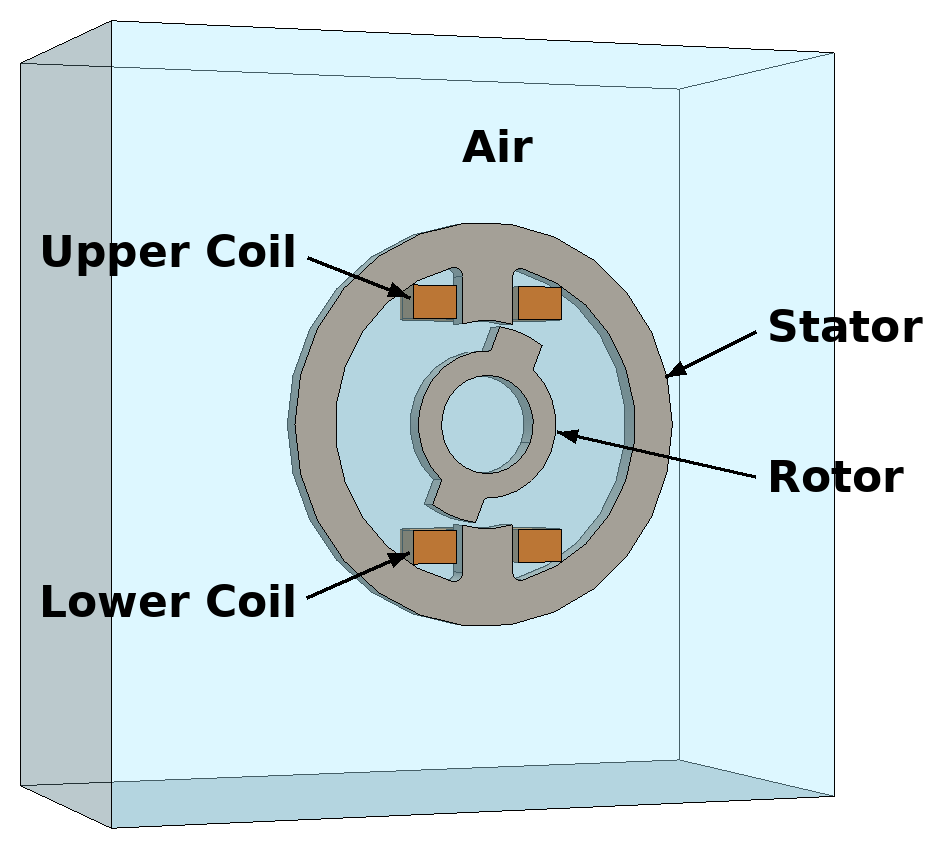
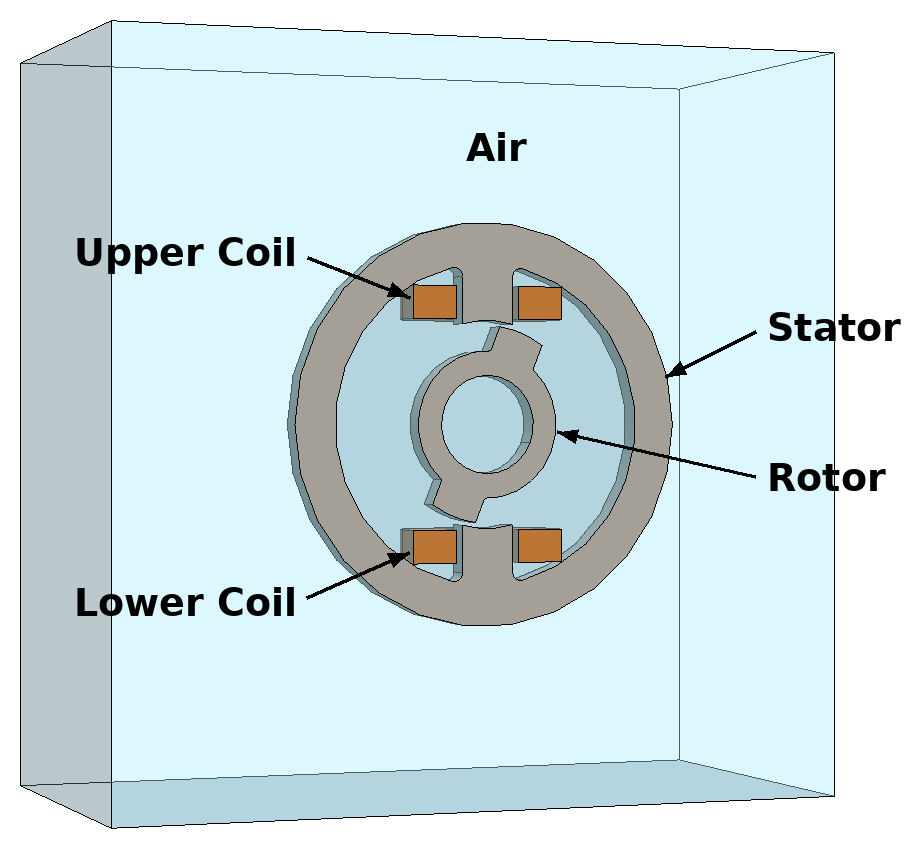
Write the Team24 animation input on every run and draw its plots in create_scene.py

diff --git a/Electromagnetics/Compumag-Team24-Locked-Rotor/case.py b/Electromagnetics/Compumag-Team24-Locked-Rotor/case.py
@@ -24,10 +24,6 @@ class Team24LockedRotor(ValidationCase):
     name = "Compumag TEAM 24: Nonlinear Time-Transient Rotational Test Rig"
     tags = {"moderate"}
 
-    # export the fields to VisualizationOutput/ and the plots to vis/ for every time step
-    # (see create_scene.py)
-    output_for_animation = False
-
     def build_geometry(self):
         from netgen.occ import Box, Cylinder, Glue, X, Y, Z, gp_Ax1, gp_Ax2, gp_Dir, gp_Pnt
 
@@ -246,22 +242,17 @@ class Team24LockedRotor(ValidationCase):
         return sim
 
     def solve(self):
-        if not self.output_for_animation:
-            self.sim.run()
-            return
-
-        field_exporter = self.sim.get_field_exporter()
-        field_exporter.add_field_output("Electric Current Density")
-        field_exporter.add_field_output("Magnetic Flux Density")
-        field_exporter.add_field_output("Element Type")
-        field_exporter.add_field_output("Cell Volume")
+        # The fields of every time step for the scenes of create_scene.py (collective).
+        exporter = self.sim.get_field_exporter()
+        exporter.set_output_directory(self.dir_path / "VisualizationOutput")
+        exporter.add_field_outputs(["Electric Current Density", "Element Type"])
 
         self.sim.initialize()
-        field_exporter.save()
+        exporter.save()
 
         for _ in range(30):
             self.runner.advance(1)
-            field_exporter.save()
+            exporter.save()
 
     def validate(self):
         self.coil_current = self.current_monitor.get_values()
@@ -286,20 +277,36 @@ class Team24LockedRotor(ValidationCase):
             tables / "Table_6_Hall_Probe_Flux_Density.csv", delimiter=",", skiprows=1
         )
 
-        if self.output_for_animation:
-            (self.dir_path / "vis").mkdir(exist_ok=True)
-            for i in range(len(self.coil_current)):
-                self.plot(
-                    self.coil_current[: i + 1],
-                    self.rotor_torque[: i + 1],
-                    current_ref,
-                    torque_ref,
-                    self.dir_path / "vis",
-                    f"_{i:03d}",
-                )
+        # The input of the animation of create_scene.py.
+        numpy.savez(
+            self.scene_data_path,
+            coil_current=numpy.array(self.coil_current),
+            rotor_torque=numpy.array(self.rotor_torque),
+        )
 
-        self.plot(
-            self.coil_current, self.rotor_torque, current_ref, torque_ref, self.results_path, ""
+        common = dict(
+            style=PlotStyle.LINE_AND_POINTS,
+            reference_style=PlotStyle.POINTS,
+            reference_label="Allen (1996)",
+            xlabel="Time [s]",
+            xlim=(0.0, 0.15),
+            xticks=[0.0, 0.05, 0.1, 0.15],
+        )
+        xy_plot(
+            values=self.coil_current,
+            reference_values=current_ref,
+            ylabel="Coil Current [A]",
+            ylim=(0.0, 8.0),
+            path=f"{self.results_path / 'Coil_Current_vs_Time.png'}",
+            **common,
+        )
+        xy_plot(
+            values=self.rotor_torque,
+            reference_values=torque_ref,
+            ylabel="Rotor Torque [Nm]",
+            ylim=(0.0, 3.5),
+            path=f"{self.results_path / 'Rotor_Torque_vs_Time.png'}",
+            **common,
         )
 
         xy_plot(
@@ -314,34 +321,6 @@ class Team24LockedRotor(ValidationCase):
             xticks=[0.0, 0.05, 0.1, 0.15],
             ylim=(0.0, 1.4),
             path=f"{self.results_path / 'Hall_Probe_vs_Time.png'}",
-        )
-
-    @staticmethod
-    def plot(current, torque, current_ref, torque_ref, directory, suffix):
-        common = dict(
-            style=PlotStyle.LINE_AND_POINTS,
-            reference_style=PlotStyle.POINTS,
-            reference_label="Allen (1996)",
-            xlabel="Time [s]",
-            xlim=(0.0, 0.15),
-            xticks=[0.0, 0.05, 0.1, 0.15],
-        )
-
-        xy_plot(
-            values=current,
-            reference_values=current_ref,
-            ylabel="Coil Current [A]",
-            ylim=(0.0, 8.0),
-            path=f"{directory}/Coil_Current_vs_Time{suffix}.png",
-            **common,
-        )
-        xy_plot(
-            values=torque,
-            reference_values=torque_ref,
-            ylabel="Rotor Torque [Nm]",
-            ylim=(0.0, 3.5),
-            path=f"{directory}/Rotor_Torque_vs_Time{suffix}.png",
-            **common,
         )
 
 

diff --git a/Electromagnetics/Compumag-Team24-Locked-Rotor/create_scene.py b/Electromagnetics/Compumag-Team24-Locked-Rotor/create_scene.py
@@ -1,8 +1,8 @@
 """Render results/Scene_ElementType.png and results/Result_Animation.gif from the case output.
 
-Run the case with `output_for_animation = True` first: it exports the fields of every time step
-and writes the current and torque plots into vis/. Then run `pvpython create_scene.py`
-(requires `ffmpeg`).
+Run with `pvpython create_scene.py` after the case (requires `ffmpeg`). The case exports the
+fields of every time step to VisualizationOutput/ and writes the coil current and the rotor
+torque over time to VisualizationOutput/Scene_Data.npz.
 """
 
 import sys
@@ -11,13 +11,16 @@ from pathlib import Path
 case_dir = Path(__file__).resolve().parent
 sys.path.insert(0, str(case_dir.parents[1]))
 
+import numpy as np
 
+from casekit import PlotStyle, xy_plot
 from casekit.images import combine_images, write_gif
 from casekit.paraview_scene import (
     blocks,
     color_by,
     new_view,
     read_output,
+    read_scene_data,
     save,
     scene,
     set_camera,
@@ -25,6 +28,40 @@ from casekit.paraview_scene import (
 )
 
 vis = case_dir / "vis"
+tables = case_dir / "data" / "tables"
+monitors = read_scene_data(case_dir)
+current_ref = np.loadtxt(tables / "Table_3_Coil_Current.csv", delimiter=",", skiprows=1)
+torque_ref = np.loadtxt(tables / "Table_4_Torque.csv", delimiter=",", skiprows=1)
+
+
+def plots(i):
+    """Coil current and rotor torque up to time step `i`, as the plots of case.py."""
+    common = dict(
+        style=PlotStyle.LINE_AND_POINTS,
+        reference_style=PlotStyle.POINTS,
+        reference_label="Allen (1996)",
+        xlabel="Time [s]",
+        xlim=(0.0, 0.15),
+        xticks=[0.0, 0.05, 0.1, 0.15],
+    )
+    paths = [vis / f"Coil_Current_vs_Time_{i:03d}.png", vis / f"Rotor_Torque_vs_Time_{i:03d}.png"]
+    xy_plot(
+        values=monitors["coil_current"][: i + 1],
+        reference_values=current_ref,
+        ylabel="Coil Current [A]",
+        ylim=(0.0, 8.0),
+        path=f"{paths[0]}",
+        **common,
+    )
+    xy_plot(
+        values=monitors["rotor_torque"][: i + 1],
+        reference_values=torque_ref,
+        ylabel="Rotor Torque [Nm]",
+        ylim=(0.0, 3.5),
+        path=f"{paths[1]}",
+        **common,
+    )
+    return paths
 
 
 def read_step(index):
@@ -77,10 +114,6 @@ for i in range(31):
         save(view, vis / f"Scene_Electric_Current_Density_{i:03d}.png", crop=False)
 
     frames.append(vis / f"Scene_{i:03d}.png")
-    combine_images(
-        vis / f"Scene_Electric_Current_Density_{i:03d}.png",
-        [vis / f"Coil_Current_vs_Time_{i:03d}.png", vis / f"Rotor_Torque_vs_Time_{i:03d}.png"],
-        frames[-1],
-    )
+    combine_images(vis / f"Scene_Electric_Current_Density_{i:03d}.png", plots(i), frames[-1])
 
 write_gif(frames, case_dir / "results" / "Result_Animation.gif")

diff --git a/Electromagnetics/Compumag-Team24-Locked-Rotor/create_geometry_image.py b/Electromagnetics/Compumag-Team24-Locked-Rotor/create_geometry_image.py
@@ -26,7 +26,7 @@ image = snapshot(
     size=(1969, 1135),
 )
 
-labels = Labels(image, font_size=44)
+labels = Labels(image, font_size=38)
 labels.text((1060, 290), "Air")
 for text, position, anchor, start, end in [
     ("Upper Coil", (860, 395), "rm", (870, 400), (972, 440)),

diff --git a/Electromagnetics/Compumag-Team24-Locked-Rotor/README.md b/Electromagnetics/Compumag-Team24-Locked-Rotor/README.md
@@ -9,7 +9,7 @@ as the field builds up. The benchmark provides the measured coil current, rotor 
 and the flux density at a Hall probe in the air gap [1, 2]. It is solved using [case.py](case.py).
 
 <div align="center">
-<img src="data/Geometry.png" alt="Geometry" width="85%">
+<img src="data/Geometry.png" alt="Geometry" width="45%">
 <br/>
 <br/>
 <em>Figure 1: The modeled half (z ≤ 0) of the benchmark: a stator carrying two coils and a rotor locked at 22°.</em>
@@ -107,9 +107,9 @@ Run the case with `pymufem case.py`.
 
 Figure 1 is rendered from the geometry with [create_geometry_image.py](create_geometry_image.py).
 Figure 3 and the animation (Figure 5) are rendered with ParaView by
-[create_scene.py](create_scene.py). To produce its input, set `output_for_animation = True` in
-[case.py](case.py) and run the case; then run `pvpython create_scene.py` in the case directory
-(requires `ffmpeg`).
+[create_scene.py](create_scene.py) from the fields of every time step and the coil current and
+rotor torque that every run of the case writes to `VisualizationOutput/`; run
+`pvpython create_scene.py` in the case directory after the case (requires `ffmpeg`).
 
 ## Results
 
